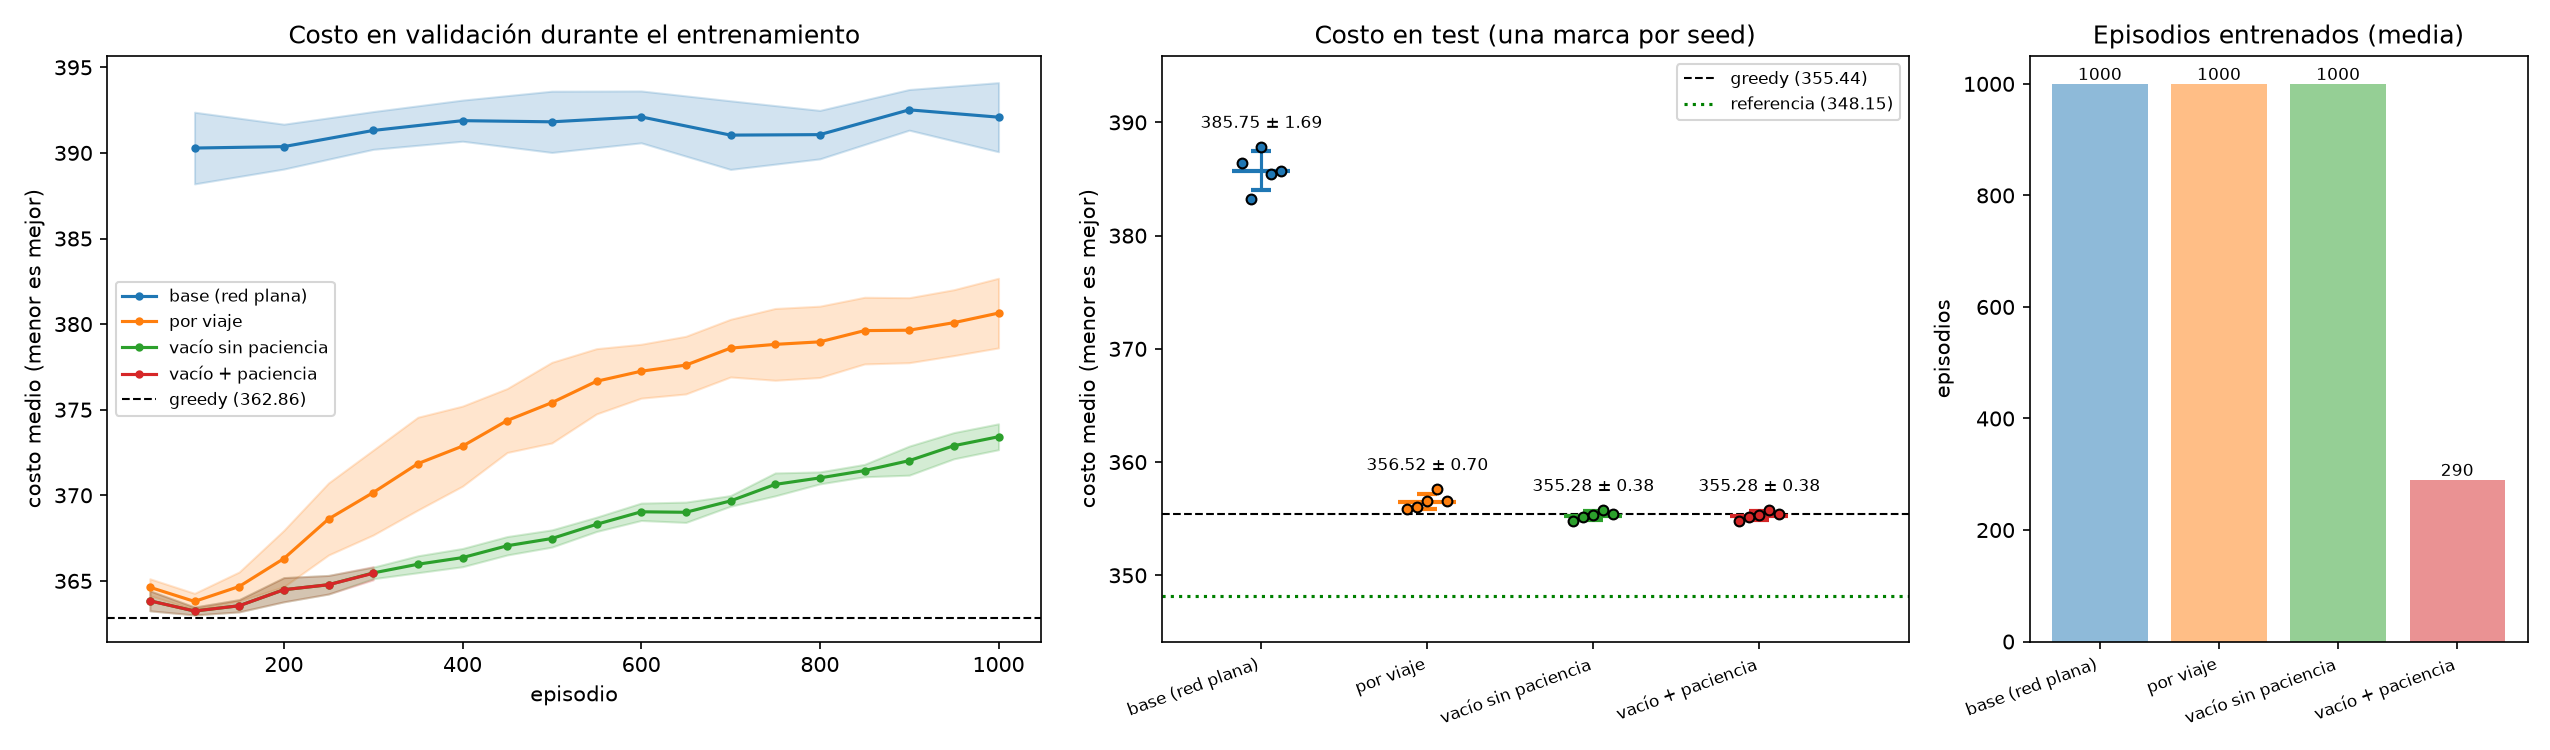
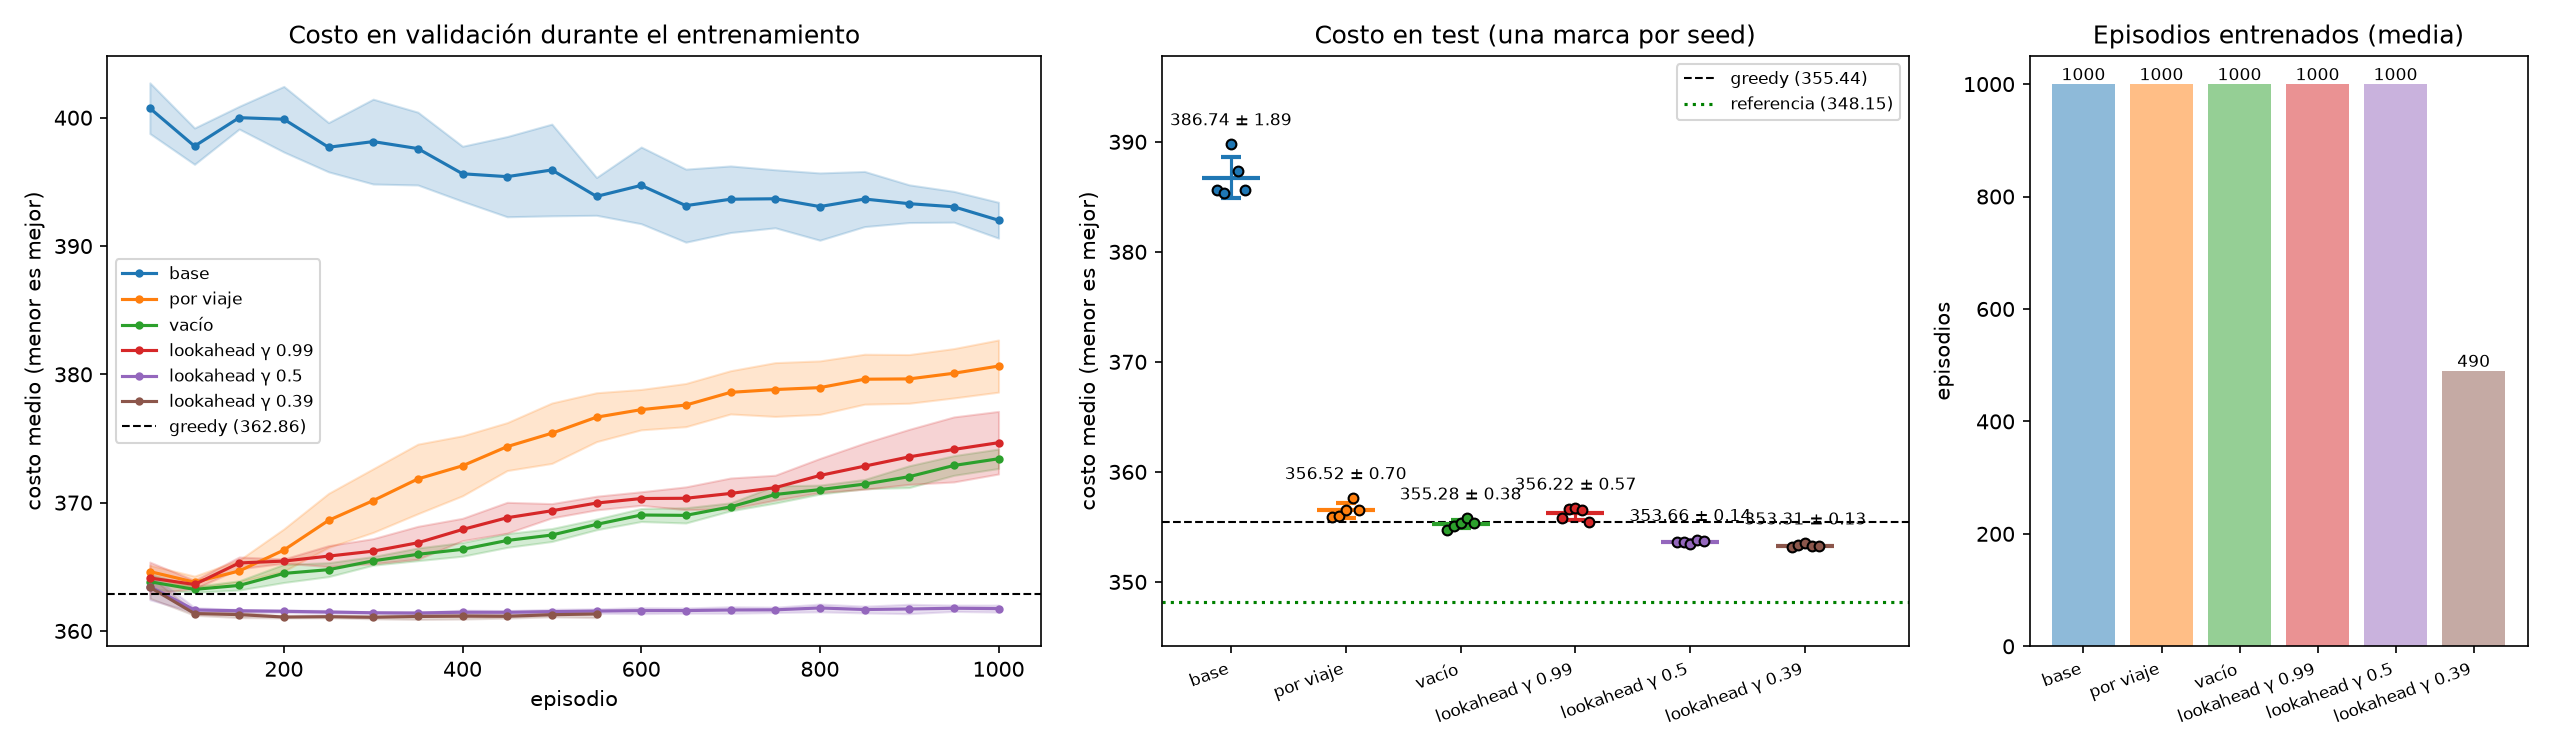
Modificaciones en readme, demo y actualizacion de grafico de comparacion

diff --git a/README.md b/README.md
@@ -14,7 +14,7 @@ Inteligencia Artificial (IUA).
 6. [Cómo ejecutarlo](#cómo-ejecutarlo)
 7. [Resultados](#resultados)
 8. [Análisis: el costo de validación empeora al entrenar](#análisis-el-costo-de-validación-empeora-al-entrenar)
-9. [Limitaciones y trabajo futuro](#limitaciones-y-trabajo-futuro)
+9. [Limitaciones](#limitaciones)
 10. [Estructura del repositorio](#estructura-del-repositorio)
 11. [API y Docker](#api-y-docker)
 12. [Licencia](#licencia)
@@ -145,7 +145,7 @@ en test comparado con el greedy y la referencia.
 | `--episodios` | episodios de entrenamiento | `1000` |
 | `--oculta` | neuronas de las capas ocultas | `32` |
 | `--lr` | learning rate | `3e-4` |
-| `--gamma` | factor de descuento | `0.39` |
+| `--gamma` | factor de descuento | `0.5` |
 | `--evaluar-cada` | episodios entre evaluaciones en validación | `50` |
 | `--peso-distancia` | escala del reward (parámetro del entorno) | `1.0` |
 | `--recompensa` | `total` o `vacio` (solo castiga el tramo en vacío) | `total` |
@@ -199,9 +199,14 @@ python -m src.evaluation --modelo models/lookahead_g039_paciencia/modelo_seed_0.
 ### Comparar variantes en un gráfico
 
 ```bash
-python -m src.comparison "por viaje=models/base_por_viaje" "vacío=models/base_vacio" \
-  "lookahead γ=0.99=models/lookahead" "lookahead γ=0.5=models/lookahead_g05" \
-  "lookahead γ=0.39=models/lookahead_g039_paciencia" --salida graficos/comparacion.png
+python -m src.comparison \
+  "base=models/base" \
+  "por viaje=models/base_por_viaje" \
+  "vacío=models/base_vacio" \
+  "lookahead γ 0.99=models/lookahead" \
+  "lookahead γ 0.5=models/lookahead_g05" \
+  "lookahead γ 0.39=models/lookahead_g039_paciencia" \
+  --salida graficos/comparacion.png
 ```
 
 Con `--sin-referencia` se omite el cálculo de la referencia y es más rápido.
